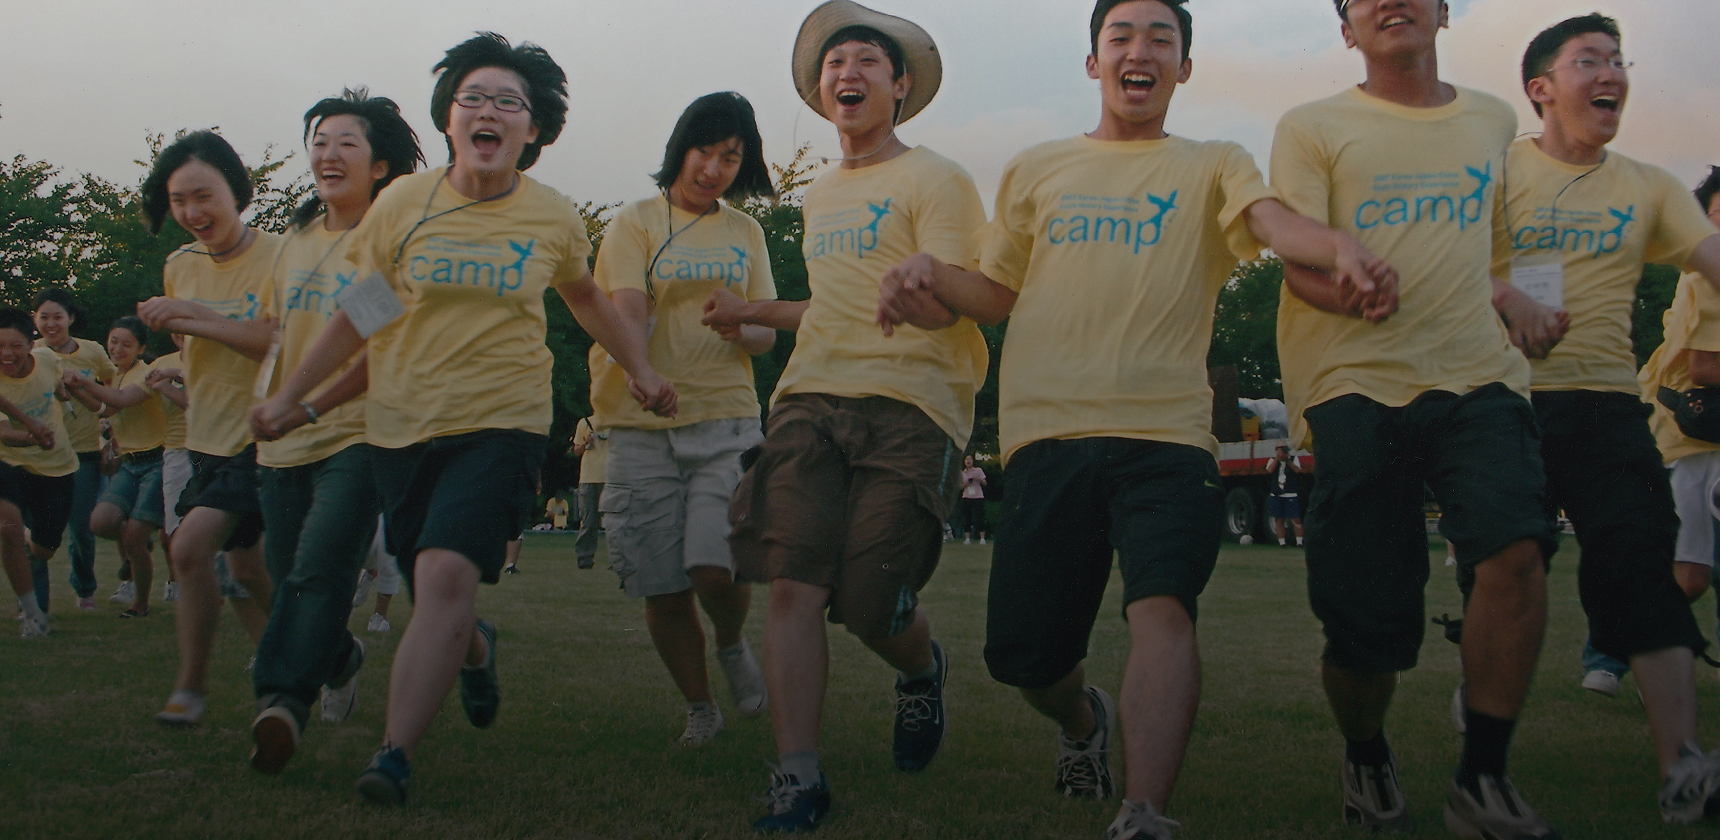
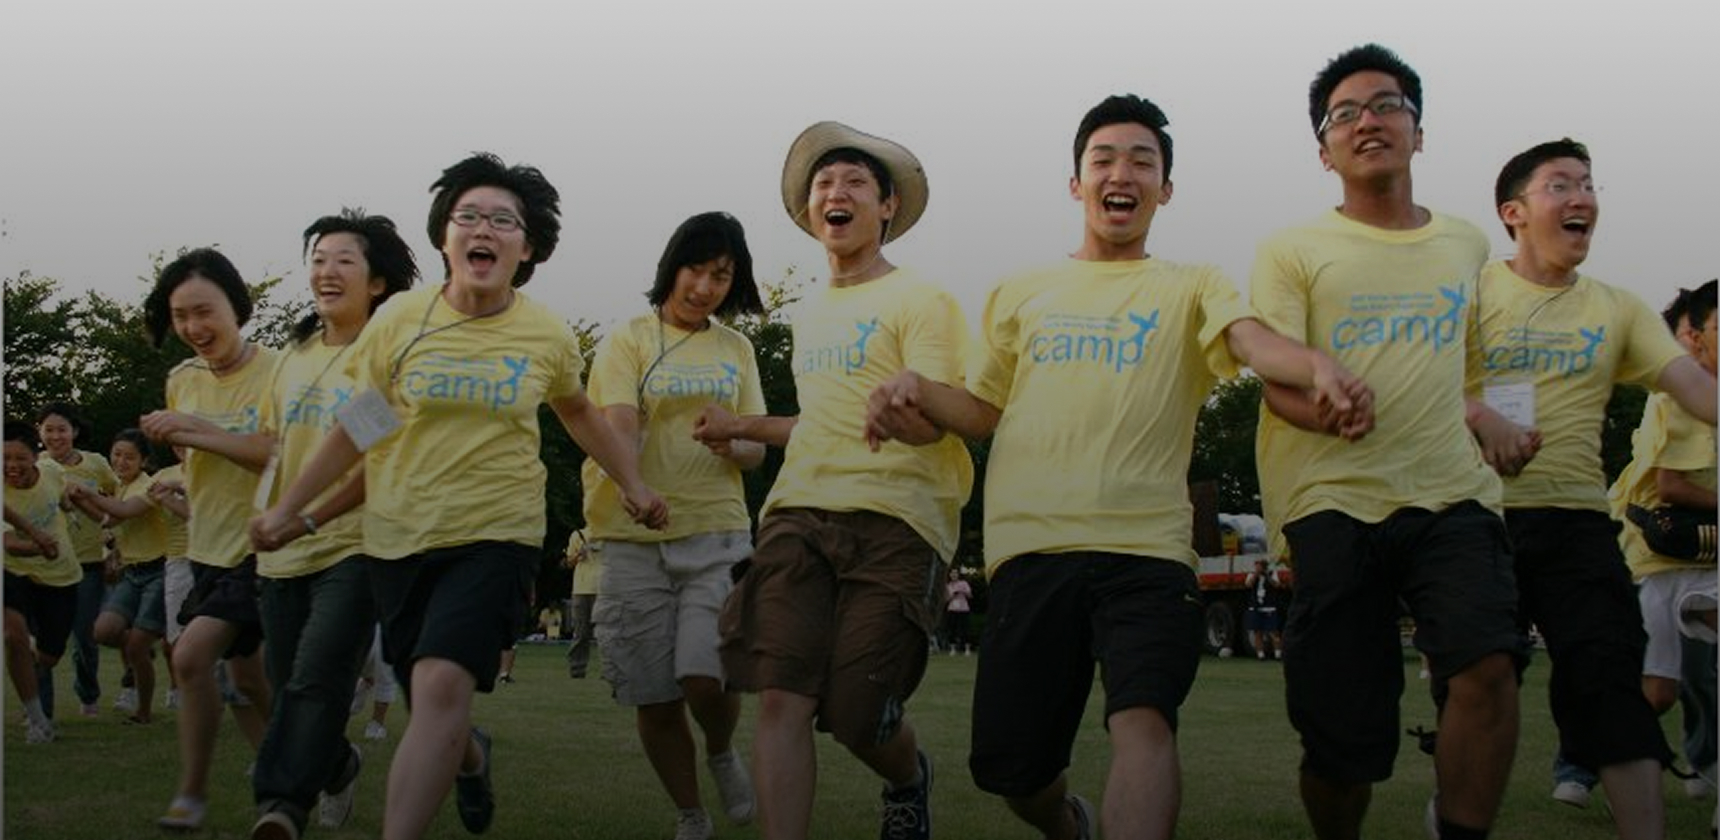
feat:연혁2025 이미지,메인 섹션1 배경이미지 변경

diff --git a/fe/src/components/user/main/-components/MainSection1.tsx b/fe/src/components/user/main/-components/MainSection1.tsx
@@ -12,7 +12,7 @@ export default function MainSection1({
     sectOn: boolean;
 }) {
     return (
-        <div ref={sectRef} className="mx-auto max-w-[1360px] px-[20px] md:px-[28px] min-[1400px]:px-0">
+        <div ref={sectRef} className="mx-auto max-w-[1720px] px-[20px] md:px-[28px] min-[1760px]:px-0">
             <div className="relative overflow-hidden rounded-[20px] py-[160px] md:rounded-[40px] md:py-[136px] xl:py-[160px]">
                 <Image
                     src={bgMainSection1}
